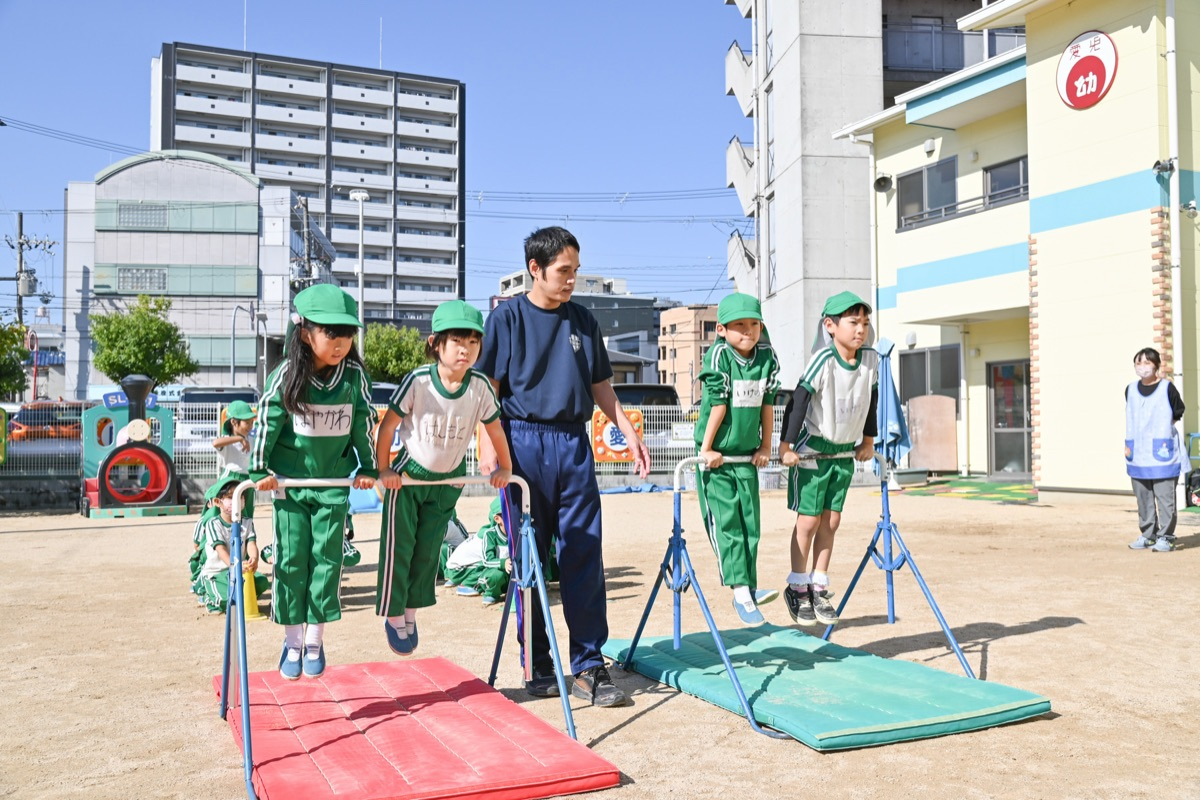
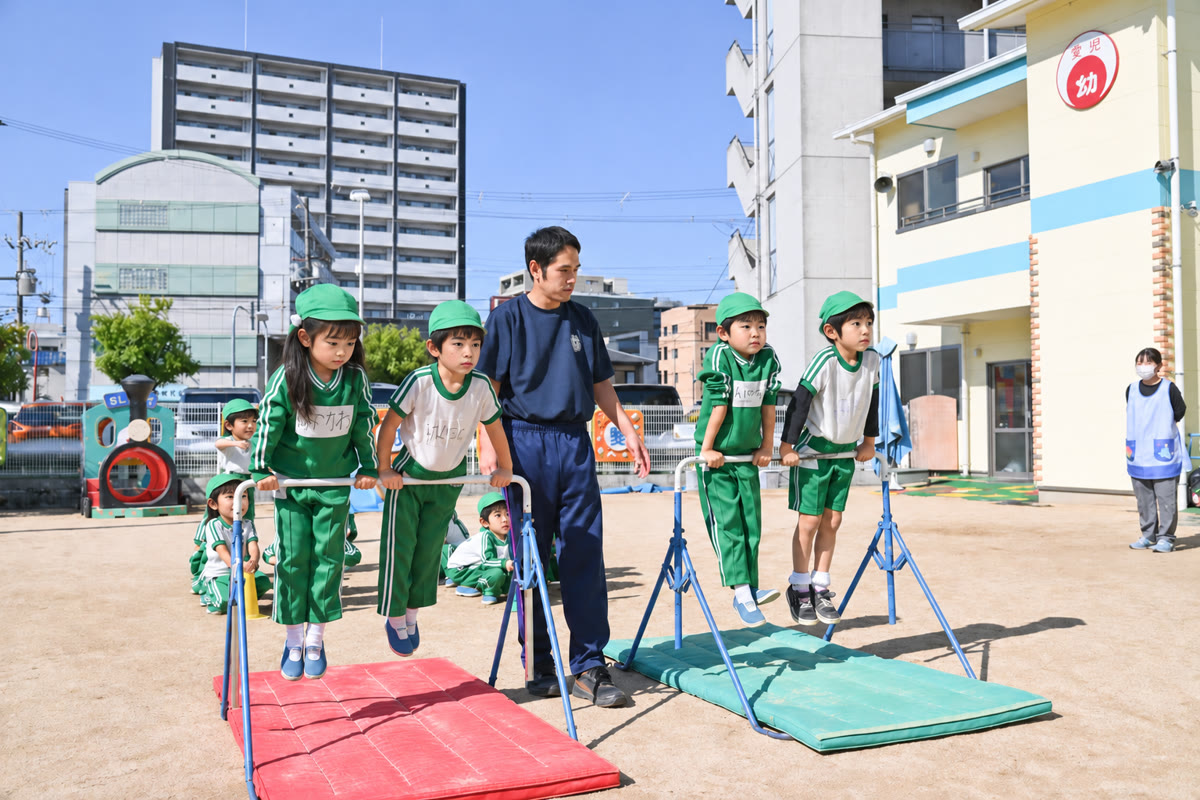
feat: 実写写真の子どもの顔を別人に差し替え、理事長を白樫旬子に変更
- 実写写真12枚（年間行事・教育・園の紹介・制服）の子どもの顔をAI編集で別人の顔に置き換え
- 盆踊りの提灯と夏服の名札の名前を読めないように加工
- 理事長の名前と写真を新理事長に更新し、webpも作り直し

diff --git a/wp-content/themes/aiji-yochien/page-about.php b/wp-content/themes/aiji-yochien/page-about.php
@@ -48,14 +48,14 @@ get_header();
             「先生！だいすき！」と信頼関係を築くことで「安心」できる場となり、「友だち大好き！」と
             先生や友だちと一緒にさまざまな遊びを経験することで、生きる力の基礎や知識を蓄える基礎が形成されると考えます。
           </p>
-          <p class="about-signature">理事長　白樫 章行</p>
+          <p class="about-signature">理事長　白樫 旬子</p>
         </div>
         <?php
         // assets/images/photo-chairman.jpg を置くと理事長の写真に自動で切り替わる
         $aiji_chairman_photo = aiji_photo( 'chairman' );
         ?>
         <figure class="photo-card<?php echo $aiji_chairman_photo ? ' photo-card--portrait' : ''; ?>">
-          <img src="<?php echo $aiji_chairman_photo ? $aiji_chairman_photo : aiji_asset( 'images/hero-children-running.png' ); ?>" alt="<?php echo $aiji_chairman_photo ? '理事長 白樫章行' : '園庭で遊ぶ子どもたち'; ?>">
+          <img src="<?php echo $aiji_chairman_photo ? $aiji_chairman_photo : aiji_asset( 'images/hero-children-running.png' ); ?>" alt="<?php echo $aiji_chairman_photo ? '理事長 白樫旬子' : '園庭で遊ぶ子どもたち'; ?>">
         </figure>
       </section>
 
